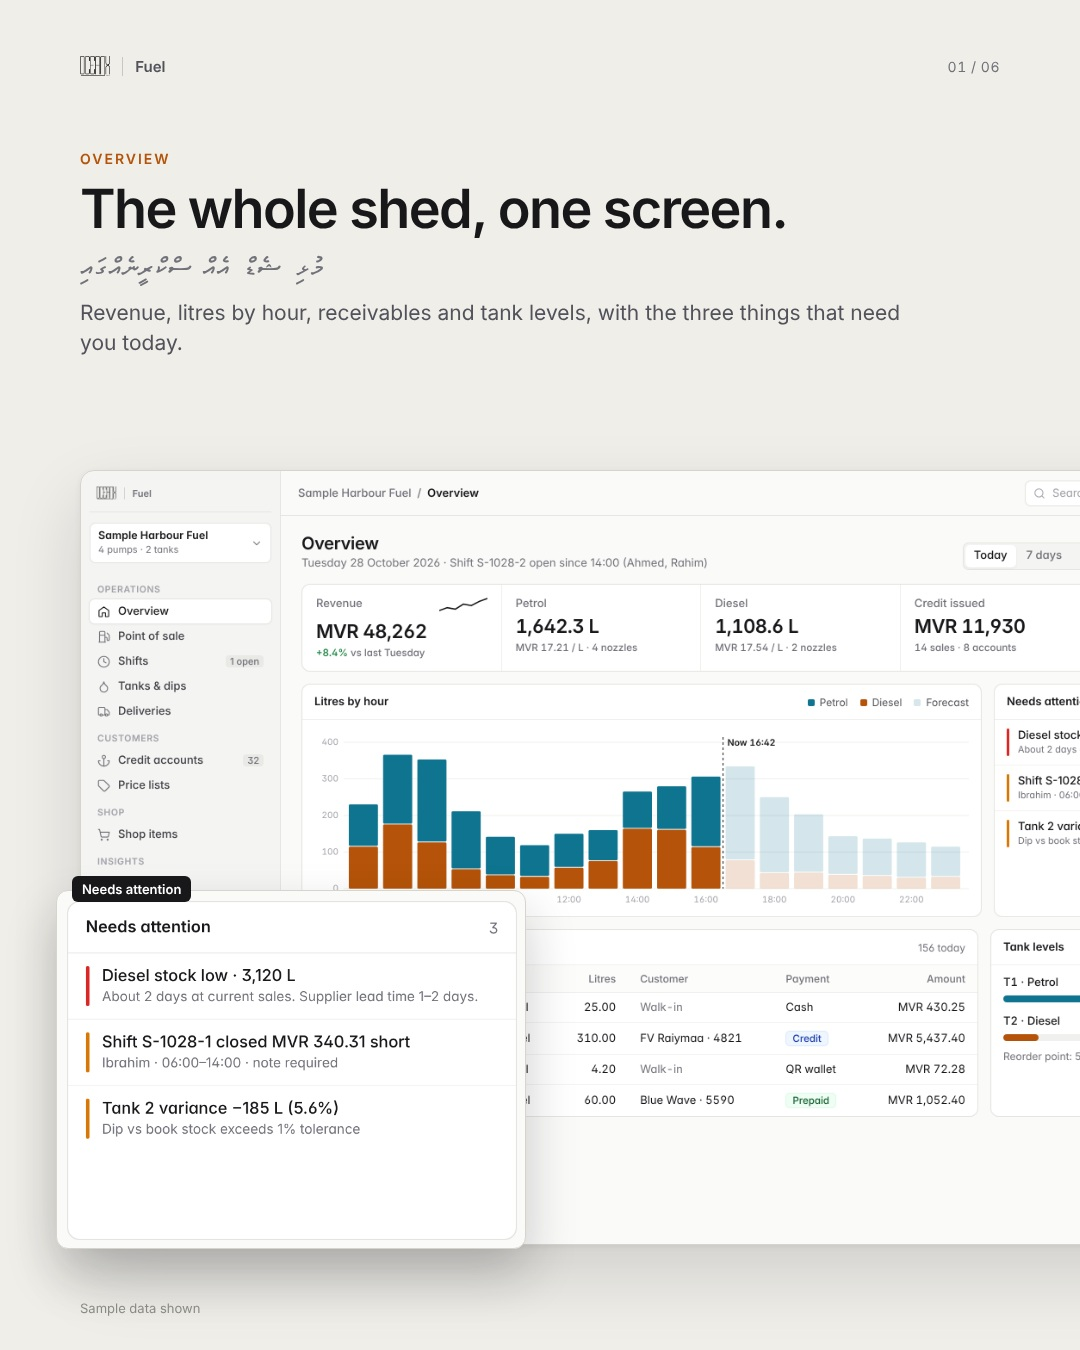
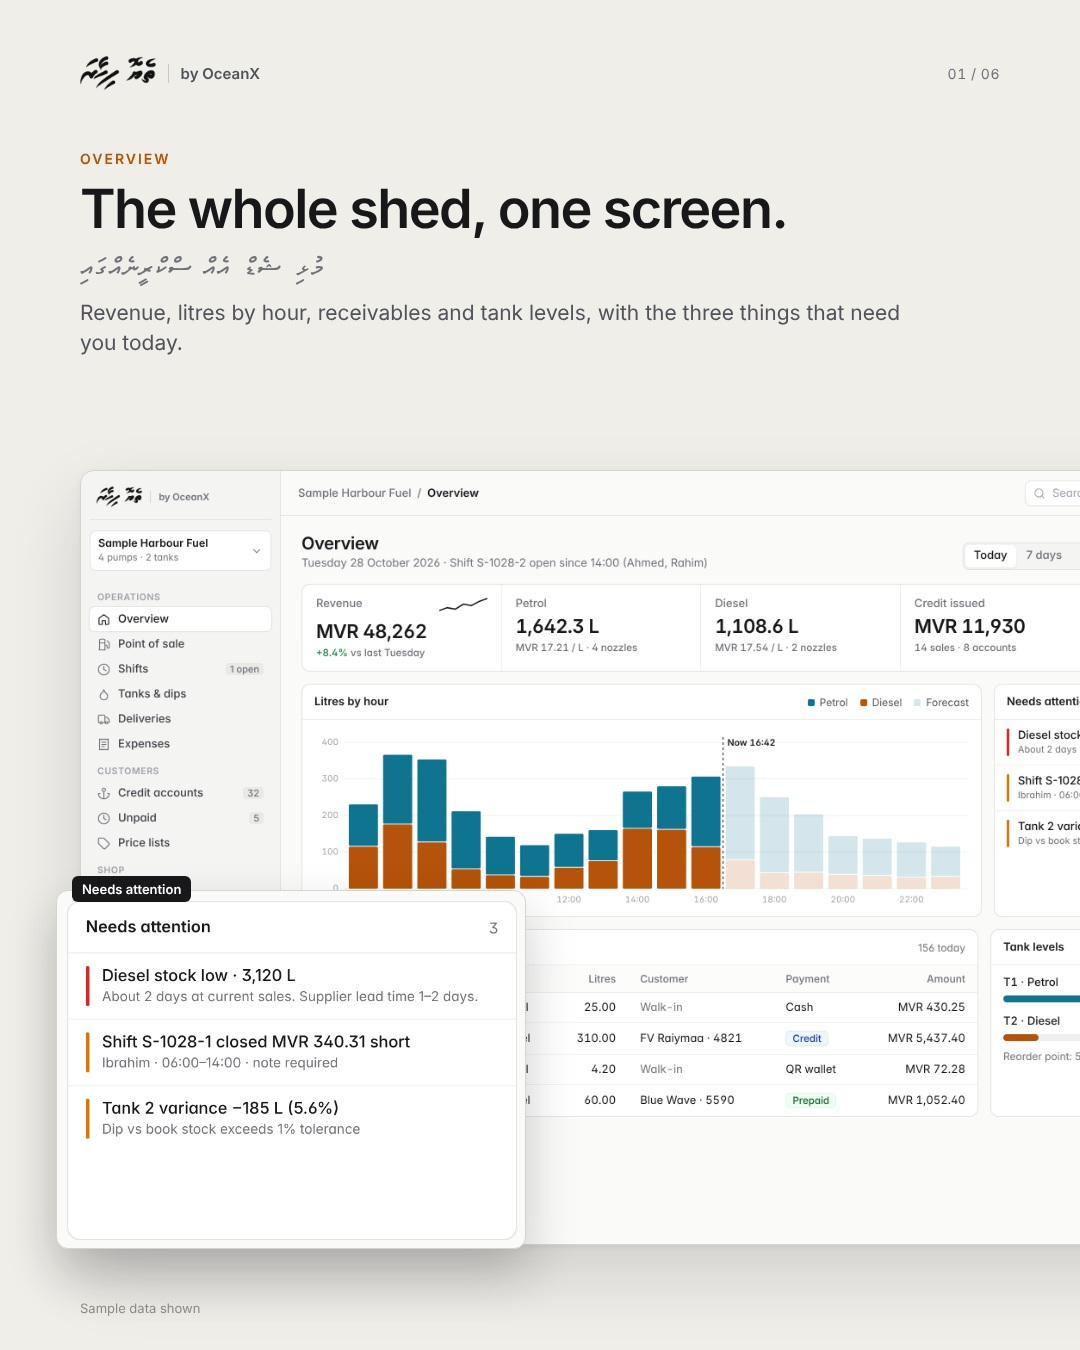
Fuel POS: Theyo Fihaara branding across demo screens, pictures and reports
Claude-Session: https://claude.ai/code/session_01H3ZKyiXQBCQKHDZabkJ7MS

diff --git a/docs/ideas/fuel-pos.md b/docs/ideas/fuel-pos.md
@@ -1,7 +1,7 @@
-# Fuel shed POS (name not chosen yet) — plan
+# Theyo Fihaara (ތެޔޮ ފިހާރަ) — fuel shed POS plan
 
 Status: plan + demo pictures (docs/marketing/fuel-demo/fuel-v3-*.jpg). Not built.
-Name options: Hakatha (ހަކަތަ), Theyo (ތެޔޮ), Furihama, OceanX Fuel, Octane, Litre.
+Name: Theyo Fihaara (ތެޔޮ ފިހާރަ), by OceanX. Logo: docs/marketing/fuel-demo/logo/fuel-logo.png (product logo, not a shed logo).
 
 ## Who it's for
 Private and council-run island fuel sheds, harbour fuel sellers (fishing boats, speedboats),
